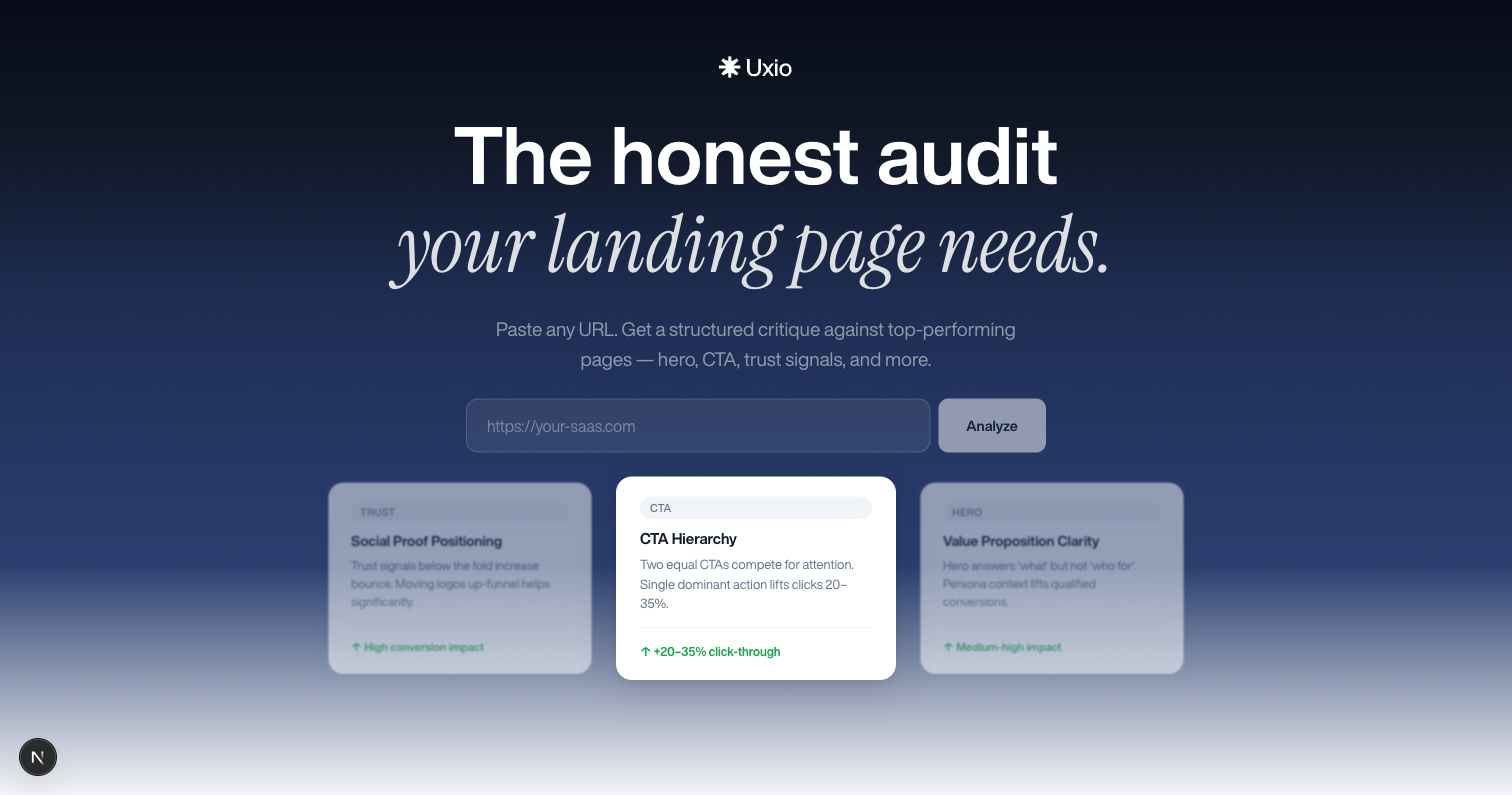
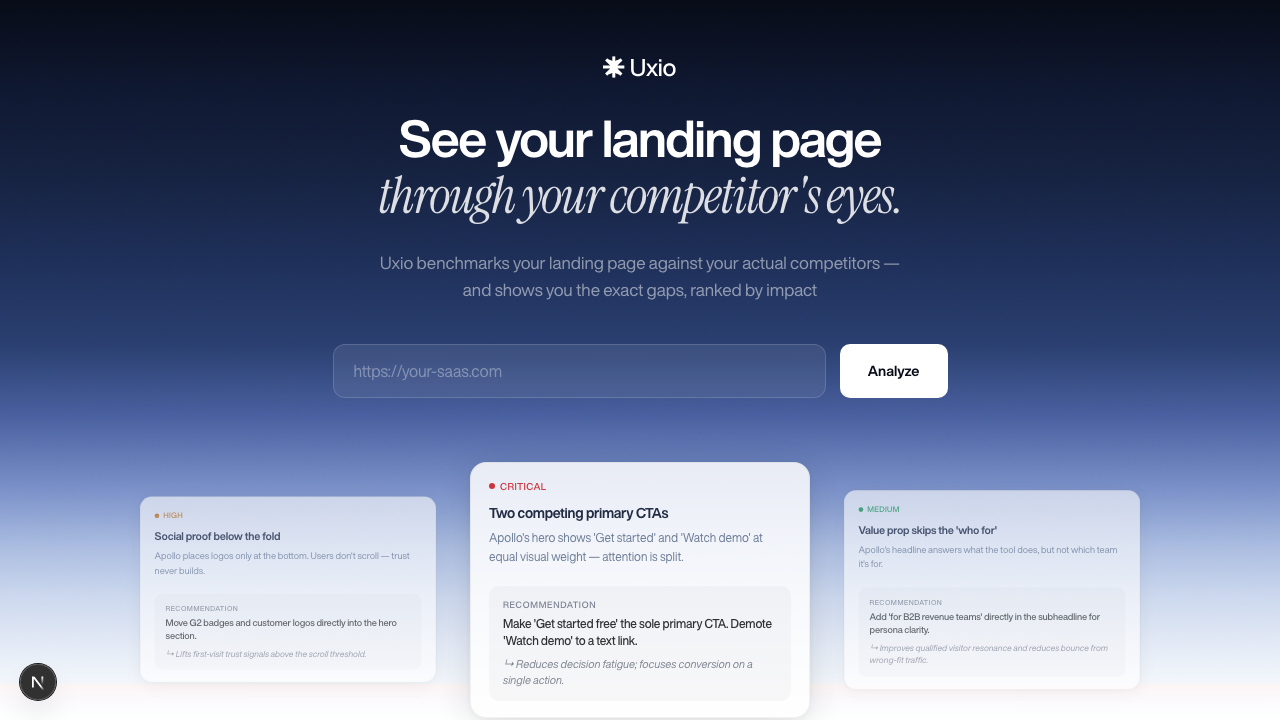
Remove outdated image assets and update README for clarity and accuracy. Revised landing page description and enhanced agent pipeline details. Updated screenshot references and adjusted Vercel maxDuration note.

diff --git a/README.md b/README.md
@@ -1,10 +1,10 @@
 # Uxio — AI Competitive Landing Page Analyzer
 
-**Get instant, evidence-based competitive design intelligence for your SaaS landing page.**
+**The honest audit your landing page needs.**
 
-Paste any SaaS URL → Uxio finds your top competitors, scrapes their landing pages, and delivers prioritized design recommendations backed by specific copy and visual evidence.
+Paste any SaaS URL → Uxio benchmarks it against your top competitors and delivers prioritized design recommendations backed by specific copy and visual evidence — hero, CTAs, trust signals, and more.
 
-![Uxio hero](./uxio-initial.png)
+![Uxio hero](./screenshot-hero.png)
 
 ---
 
@@ -16,10 +16,11 @@ Paste any SaaS URL → Uxio finds your top competitors, scrapes their landing pa
 4. **Classifies page sections** (hero, pricing, social proof, features, CTA, footer…)
 5. **Analyzes each section** for strengths, weaknesses, and scores across 6 dimensions
 6. **Generates prioritized recommendations** — critical, high, and medium priority — each citing specific evidence from competitor pages
+7. **Caches results** for 2 hours — revisiting the same URL shows results instantly without re-running the pipeline
+8. **Exports a PDF** of the full analysis with one click
+9. **Notifies you** via browser notification when analysis finishes while the tab is in the background
 
 Results stream in real time via Server-Sent Events (SSE). The full analysis takes ~60–120 seconds.
-
-![Uxio analysis in progress](./uxio-analyzing.png)
 
 ---
 
@@ -27,17 +28,17 @@ Results stream in real time via Server-Sent Events (SSE). The full analysis take
 
 A 7-agent sequential pipeline runs entirely on the server:
 
-| # | Agent | What it does | APIs used |
-|---|-------|-------------|-----------|
-| 0 | Page Intelligence | Extracts a product brief from your URL | Firecrawl + Gemini |
-| 1 | Multi-Signal Discovery | Finds competitors via search + LLM knowledge | Tavily + Gemini |
-| 2 | Competitor Validator | Scores and ranks the top 3 | Gemini |
-| 3 | Scraper | Two-pass scrape of all competitor pages | Firecrawl |
-| 4 | Section Classifier | Identifies and deduplicates page sections | Gemini |
-| 5 | Vision Analyzer | Analyzes screenshots + markdown per section | Gemini Vision |
-| 6 | Synthesis | Produces 3 recommendations per section | Gemini |
+| # | Agent | What it does | APIs |
+|---|-------|-------------|------|
+| 0 | Page Intelligence | Extracts a product brief from your URL | Firecrawl + AI Gateway (Gemini Flash-Lite) |
+| 1 | Multi-Signal Discovery | Finds competitors via search + LLM knowledge | Tavily + AI Gateway (Gemini Flash) |
+| 2 | Competitor Validator | Scores and ranks the top 3 | AI Gateway (Gemini Flash-Lite) |
+| 3 | Scraper | Two-pass scrape of all competitor pages (JS SPA retry) | Firecrawl |
+| 4 | Section Classifier | Identifies and deduplicates page sections | AI Gateway (Gemini Flash-Lite) |
+| 5 | Vision Analyzer | Analyzes screenshots + markdown per section | AI Gateway (Gemini Flash, multimodal) |
+| 6 | Synthesis | Produces 3 recommendations per section + executive summary | AI Gateway (Gemini Flash) |
 
-Each agent streams a `progress` SSE event as it completes. The final `complete` event carries the full result.
+All LLM calls go through **Vercel AI Gateway** with automatic fallback chains (Gemini 2.5 Flash → GPT-5.4-nano). Each agent streams a `progress` SSE event as it completes. The final `complete` event carries the full result.
 
 ---
 
@@ -118,13 +119,13 @@ All keys are server-side only — never exposed to the client.
 
 ## Screenshots
 
-**Results view — section cards with competitive insights:**
+**Home — input form:**
 
-![Uxio results](./test-results-top.png)
+![Uxio hero](./screenshot-hero.png)
 
-**Progress panel — live agent pipeline:**
+**Analysis in progress — live agent pipeline:**
 
-![Uxio progress](./uxio-progress.png)
+![Uxio progress](./screenshot-progress.png)
 
 ---
 
@@ -187,7 +188,7 @@ The easiest way to deploy is with [Vercel](https://vercel.com):
 
 The API route requires Node.js runtime (not Edge) — Vercel handles this automatically based on the `runtime` export in the route file.
 
-> **Note:** Set `maxDuration` to at least 120s in your Vercel plan. The pipeline can take up to 2 minutes for complex sites.
+> **Note:** Set `maxDuration` to at least 300s in your Vercel plan. The route already exports `maxDuration = 300`; ensure your Vercel plan supports it (Pro plan required for >60s functions).
 
 ---
 
